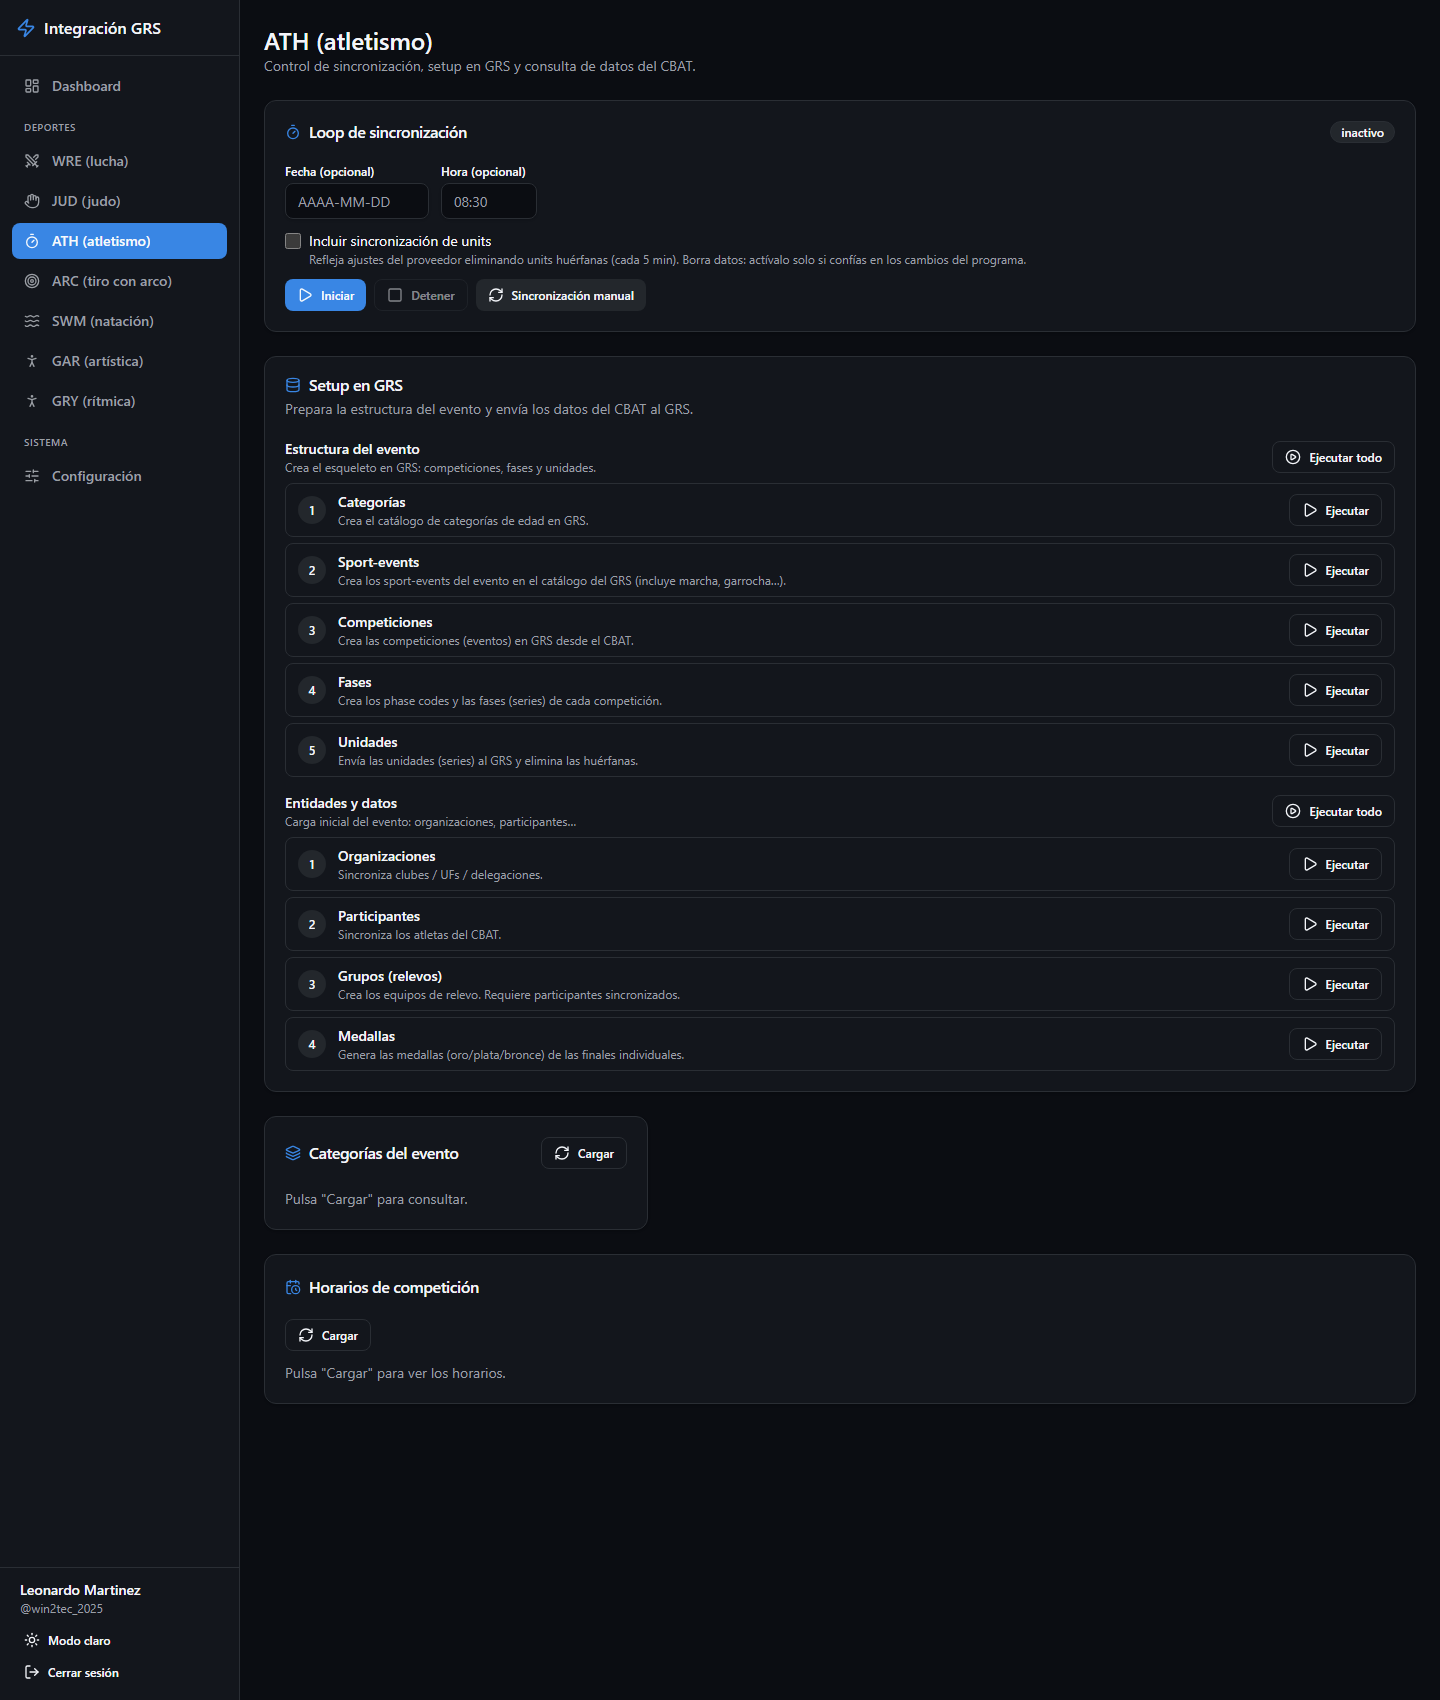
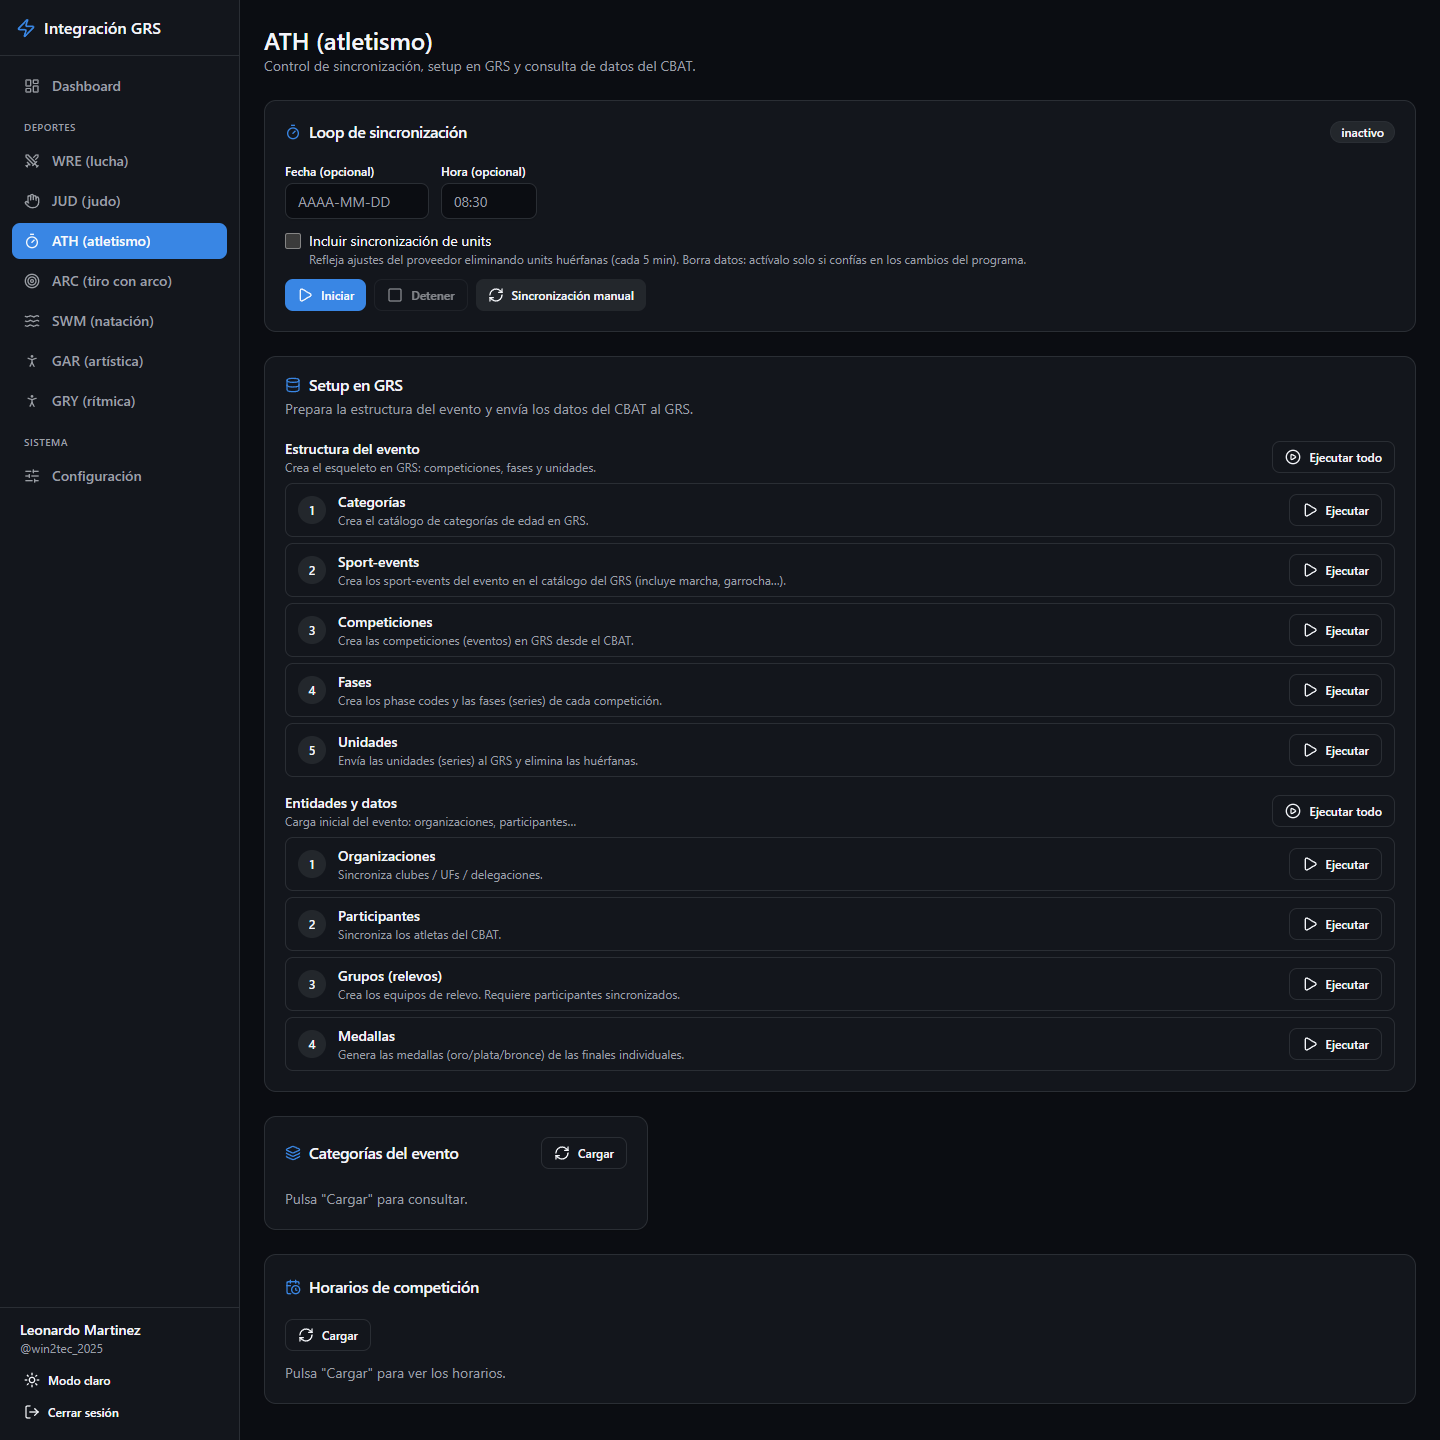
docs(manual): manual al día con la UI actual + capturas nuevas contra dev
Reescritura tras #15-#19: auto-sync se enciende desde el Dashboard y 0 =
5 min por defecto (antes decía "0 = off"), judo con códigos duales
individual/equipos + eventCode GRS prefijado y validación en vivo,
etiquetas de eventos por integración, errores agrupados por causa,
secciones reales de ATH (Categorías del evento / Horarios).

Capturas regeneradas contra dev con datos reales (1440px, página
completa vía CDP); login.png se conserva porque esa pantalla no cambió.

diff --git a/docs/manual-usuario.md b/docs/manual-usuario.md
@@ -6,7 +6,7 @@ Panel de escritorio para operar la sincronización de resultados deportivos del 
 > - **GRS**: el sistema central de resultados. Todo lo que se sincroniza termina ahí.
 > - **Proveedor**: el sistema externo de cada deporte (Arena, Zempo, CBAT, IANSEO, SwimSystem, SportTech).
 > - **Sync / sincronización**: traer datos del proveedor y guardarlos en el GRS.
-> - **Auto-sync**: sincronización automática periódica (cada N segundos).
+> - **Auto-sync**: sincronización automática periódica. El intervalo se configura en **Configuración → Integraciones**; se enciende y apaga desde la tarjeta del deporte en el **Dashboard**.
 > - **Setup**: pasos que crean la estructura del evento en el GRS (competiciones, fases, units) antes de sincronizar datos.
 
 ---
@@ -54,39 +54,40 @@ Dónde están los servicios y sus credenciales. Se guardan **en esta computadora
 |---|---|
 | GRS — Base URL (incluye /api) | URL del GRS, p. ej. `http://localhost:3010/api` |
 | Idioma (header language del GRS) | Código de idioma, normalmente `spa` |
-| JUD / judo — Base URL y API Key | Servicio Zempo de judo |
+| JUD / judo — Base URL y API Key (Bearer) | Servicio Zempo de judo |
 | ATH / atletismo — Base URL y API Key (opcional) | Servicio de atletismo (CBAT) |
 
 Pulsa **Guardar conexiones** al terminar. El botón **Probar conexión Zempo** verifica que el servicio de judo responda (badge "Zempo conectado" / "Zempo sin conexión").
 
 ### 3.2 Integraciones
 
-Configuración operativa de cada proveedor, guardada en el GRS. Cada tarjeta (SWM, WRE, GAR, GRY, JUD) muestra:
+Configuración operativa de cada proveedor, guardada en el GRS. Cada tarjeta (WRE, JUD, GAR, GRY, SWM) muestra:
 
 - Badge **habilitado / deshabilitado** y botón para alternarlo.
-- **Eventos / meets / competiciones**: la lista de ediciones (una por año). Agrega la actual y márcala como **activa** — es la que operan las páginas de cada deporte.
-- **Auto-sync cada (segundos · 0 = off)**: intervalo del runner automático del servidor. Con un valor mayor a 0 aparece "runner activo · cada Xs".
+- **Eventos / meets / competiciones**: la lista de ediciones (una por año). Cada fila tiene una **Etiqueta** (nombre legible que se muestra en el Dashboard y en las páginas, p. ej. "Continental Cup 2025") y el **UUID / código** del proveedor. Agrega la edición actual y márcala como **Activo** — es la que operan las páginas de cada deporte.
+- **Auto-sync cada (segundos · 0 = 5 min por defecto)**: el intervalo del runner automático del servidor. Aquí solo se configura el **tiempo**; el encendido/apagado está en la tarjeta del deporte en el Dashboard ("se inicia desde el Dashboard"). Con la auto-sync encendida se ve "auto-sync activo · cada Xs".
 - Campos propios del proveedor:
-  - **WRE**: Base URL de Arena y **Código de evento (eventCode)**, p. ej. `JJB2026`.
+  - **WRE**: **Base URL** de Arena y **Código de evento (eventCode)**, p. ej. `JJB2026`.
+  - **JUD**: dos listas de códigos de Zempo — **Individual** y **Equipos** (cada una con su activo) — más el **Código de evento GRS (eventCode)** que usa el paso de setup, p. ej. `JJB2026`.
   - **GAR/GRY**: **Código de edición (eventCode)**, p. ej. `JJB`.
-- **Última sincronización**, **Estado** (badge) y **Error** del último intento — útil para diagnóstico.
+- **Última sincronización**, **Estado** (badge: ok / error / omitido) y **Error** del último intento. Los errores se agrupan por causa (`N× causa`); expande una causa para ver a qué unidades afecta.
 
 Pulsa **Guardar** cuando cambies algo (el botón aparece solo si hay cambios).
 
 ## 4. Dashboard
 
-Es la página de inicio: una tarjeta por deporte con su estado en vivo (se refresca sola cada 15 segundos).
+Es la página de inicio: una tarjeta por deporte con su estado en vivo (se refresca sola cada 15 segundos). Desde aquí se **enciende y apaga la auto-sync** de cada integración.
 
 ![Dashboard con las tarjetas de todas las integraciones](img/dashboard.png)
 
 | Tarjeta | Estado que muestra | Acciones rápidas |
 |---|---|---|
-| **WRE (lucha)** | auto-sync activa / inactiva, evento y URL | **Iniciar** / **Detener** auto-sync, **Sync completa**, **Resultados** |
-| **JUD (judo)** | N competiciones en sync, competición activa | Agregar código de competición al sync, quitar una de la lista |
+| **WRE (lucha)** | auto-sync activa / inactiva, evento y URL de WRE | **Iniciar** / **Detener** auto-sync, **Sync completa**, **Resultados** |
+| **JUD (judo)** | N activas, competición activa (individual) y equipos | **Iniciar auto-sync** / **Detener** con los códigos de la config; quitar una competición de la lista en sync |
 | **ATH (atletismo)** | sincronizando / inactivo, fecha y última sincronización | **Iniciar** / **Detener**, **Sync manual**, casilla "Incluir sincronización de units" |
 | **ARC (tiro con arco)** | recibiendo / sin datos, documentos ODF recibidos | (solo monitor, sin acciones) |
-| **SWM (natación)** | webhook activo / sin actividad, última entrega | **Sincronizar** un meet por su id |
-| **GAR / GRY (gimnasia)** | manual / sincronizado / con errores | **Sincronizar** el evento por su id |
+| **SWM (natación)** | webhook activo / sin actividad, última entrega, meet activo | **Sincronizar** un meet por su id |
+| **GAR / GRY (gimnasia)** | evento activo, manual / auto-sync activa / sincronizado | **Sincronizar** el evento (id pre-rellenado con el activo), **Iniciar auto-sync** / **Detener** |
 
 > ⚠ En **ATH**, la casilla *"Incluir sincronización de units"* **borra** units huérfanas. Actívala solo si confías en los cambios del programa del proveedor.
 
@@ -100,9 +101,9 @@ Las páginas comparten un patrón: pestaña de **competición/estado** (qué hay
 
 Se actualiza **en vivo**: la página reacciona sola cuando Arena reporta cambios.
 
-![Página WRE — así se ve cuando Arena aún no está configurada (falta baseUrl/eventCode en Integraciones)](img/wre.png)
+![Página WRE — evento en vivo con categorías y peleas](img/wre.png)
 
-- **Competición**: tarjeta *Evento actual* (código, fechas, estado), lista de **Categorías** con buscador, y las **Peleas** de la categoría seleccionada agrupadas por ronda. El botón **Sincronizar** re-sincroniza solo esa categoría.
+- **Competición**: tarjeta *Evento actual* (sede, fechas, modalidad), lista de **Categorías** con buscador, y las **Peleas** de la categoría seleccionada agrupadas por ronda, con filtros Todas / Finalizadas / Pendientes y el área (tatami) de cada pelea. El botón **Sincronizar** re-sincroniza solo esa categoría.
 - **Proveedor**: datos crudos de Arena (Evento / Categorías / Peleas) sin interpretación del GRS.
 - **Sync**: loop de sincronización de respaldo (**Iniciar** / **Detener**), configuración del webhook, pasos de **Setup en GRS** (crear estructura del evento → participantes → grupos → resultados) e **historial de sync**.
 
@@ -110,12 +111,12 @@ Se actualiza **en vivo**: la página reacciona sola cuando Arena reporta cambios
 
 ### 5.2 JUD (judo) — Zempo
 
-Arriba de todo está la barra con el **código de competición** de Zempo, que usan todas las pestañas.
+Arriba de todo está la barra con el **código de competición** de Zempo, que usan todas las pestañas. Al lado del campo aparecen dos chips con los códigos configurados en Integraciones — **Individual** y **Equipos** — para ponerlos con un click sin re-tipear. Al escribir o elegir un código, la barra lo **valida en vivo** contra Zempo y muestra el nombre de la competición, cuántas categorías tiene (y cuántas sorteadas) y los inscritos.
 
 ![Página JUD — pestaña Configuración con los pasos de setup](img/jud.png)
 
-- **Configuración**: tarjeta de setup de la competición (crear estructura → participantes → start list → equipos → resultados → rankings, más staff y federaciones) y control de horarios. Cada paso tiene su botón **Ejecutar** y muestra un resumen (creados / procesados / omitidos) con errores si los hay; también se puede **Ejecutar todo** en orden.
-- **Lutas**: categorías con su progreso (completadas/total) y las lutas de la categoría seleccionada.
+- **Configuración**: tarjeta de setup de la competición (crear estructura → participantes → start list → equipos → resultados → rankings, más staff y federaciones) y la sincronización periódica al pie. El campo **Código de evento (eventCode)** viene pre-rellenado desde Integraciones. Cada paso tiene su botón **Ejecutar** y muestra un resumen (creados / procesados / omitidos) con errores si los hay; también se puede **Ejecutar todo** en orden.
+- **Lutas**: categorías con su progreso (completadas/total) y las lutas de la categoría seleccionada. Como el nombre de las categorías se repite, cada fila muestra además el código del sport-event (el sufijo lleva el peso, p. ej. `14A1640`).
 - **Orden de lutas**: orden de ejecución por tatami.
 - **Resultados**: resultados y ranking.
 
@@ -123,9 +124,9 @@ Arriba de todo está la barra con el **código de competición** de Zempo, que u
 
 ![Página ATH — loop de sincronización y setup en GRS](img/ath.png)
 
-- **Loop de sincronización**: Iniciar / Detener el sync automático, con fecha y última sincronización.
-- **Setup en GRS** en dos grupos: *Estructura* (categorías → sport-events → competiciones → fases → unidades) y *Entidades* (organizaciones → participantes → grupos de relevos → medallas). Ejecuta en ese orden.
-- **Consulta de datos del CBAT**: vista de lectura de lo que envía el proveedor.
+- **Loop de sincronización**: Iniciar / Detener el sync automático, con fecha y hora opcionales para sincronizar un día concreto.
+- **Setup en GRS** en dos grupos, cada uno con su **Ejecutar todo**: *Estructura* (categorías → sport-events → competiciones → fases → unidades) y *Entidades* (organizaciones → participantes → grupos de relevos → medallas). Ejecuta en ese orden.
+- **Categorías del evento** y **Horarios de competición**: vistas de lectura de lo que envía el CBAT (pulsa **Cargar**).
 
 ### 5.4 ARC (tiro con arco) — IANSEO
 
@@ -133,39 +134,39 @@ Solo lectura: IANSEO empuja documentos ODF al GRS y esta página los monitorea.
 
 ![Página ARC — monitor de ingesta de documentos ODF](img/arc.png)
 
-- **Monitor de ingesta**: tabla de documentos recibidos (filtrable por tipo: Clasificación, Brackets, Match); al seleccionar uno se ve su contenido.
+- **Monitor de ingesta**: tabla de documentos recibidos (filtrable por tipo: Brackets, Clasificación, Match); al seleccionar uno se ve su contenido.
 - **Competencia**: categorías con su progreso y los matches de la seleccionada, agrupados por ronda.
 
 Si no llegan documentos ("sin datos" en el Dashboard), el problema está del lado de IANSEO o del webhook — no hay nada que "ejecutar" desde aquí.
 
 ### 5.5 SWM (natación) — SwimSystem
 
-Arriba se elige el **meet activo** (la lista se administra en Configuración → Integraciones).
+El meet activo se elige en **Configuración → Integraciones** (lista de meets con etiqueta y UUID).
 
 ![Página SWM — estado del webhook y entregas recientes](img/swm.png)
 
-- **Estado**: estado del webhook y últimas entregas recibidas.
+- **Estado**: estado de la conexión con SwimSystem y las **entregas de webhook** recientes, con contadores (completadas, fallidas, en espera) y el motivo cuando una falla.
 - **Proveedor**: recursos crudos de SwimSystem con buscador.
 - **Sync**: **Sincronizar meet**, **Validar (mapeo RSC)** y el sync por etapa en orden: estructura → organizaciones → participantes → grupos (relevos) → start-lists → resultados. Abajo, el historial.
 
 ### 5.6 GAR / GRY (gimnasia) — SportTech
 
-Dos páginas gemelas (artística y rítmica). Arriba se elige el **evento activo**.
+Dos páginas gemelas (artística y rítmica). Arriba se elige el **evento activo** (los eventos y sus etiquetas se administran en Configuración → Integraciones).
 
 ![Página GAR — competiciones y units del evento activo](img/gar.png)
 
 ![Página GRY — misma vista para rítmica, con conjuntos](img/gry.png)
 
-- **Competición**: resumen del evento (competiciones, units, atletas, sin mapear) y una tarjeta por competición con sus units, indicando cuáles ya están en catálogo y cuáles se crearán.
+- **Competición**: resumen del evento (competiciones, units, atletas, sin mapear) y una tarjeta por competición con sus units, indicando el RSC de cada una y cuáles ya están en catálogo y cuáles se crearán.
 - **Proveedor**: atletas, competiciones y estructura tal como los manda SportTech, con buscador.
 - **Sync**: pull por etapa (estructura → participantes → grupos/conjuntos → resultados), importación por **CSV** como alternativa a la API, e historial.
 
 ## 6. Puesta en marcha de un evento nuevo (checklist)
 
 1. **Configuración → Conexiones**: URLs y API keys de los servicios. Guardar y probar Zempo.
-2. **Configuración → Integraciones**: agregar la edición del año en cada proveedor, marcarla **activa**, cargar eventCode/Base URL donde aplique y habilitar la integración.
+2. **Configuración → Integraciones**: agregar la edición del año en cada proveedor (con su **etiqueta**), marcarla **Activo**, cargar eventCode/Base URL donde aplique y habilitar la integración. En JUD, cargar los códigos **Individual** y **Equipos** más el eventCode del GRS.
 3. **Por deporte**: ejecutar el **setup** (estructura primero, entidades después) desde la pestaña Sync/Configuración de cada página.
-4. **Activar los automáticos**: auto-sync de WRE y ATH, schedules de JUD, y el intervalo del runner en Integraciones donde se quiera sondeo periódico.
+4. **Activar los automáticos desde el Dashboard**: Iniciar auto-sync en las tarjetas de WRE, JUD, ATH, GAR/GRY (el intervalo se ajusta en Integraciones; `0` = cada 5 minutos).
 5. **Monitorear desde el Dashboard** durante la competencia; entrar a la página del deporte solo para diagnóstico o re-sync puntual.
 
 ## 7. Problemas frecuentes
@@ -174,7 +175,7 @@ Dos páginas gemelas (artística y rítmica). Arriba se elige el **evento activo
 |---|---|
 | No puedo iniciar sesión | ¿GRS encendido? ¿URL correcta en Configuración → Conexiones? |
 | Tarjeta con "No se pudo conectar" | Botón reintentar; luego URLs/keys en Conexiones y que el servicio esté corriendo |
-| Estado FAILED en una integración | Ver el campo **Error** en Configuración → Integraciones o el historial de sync de la página del deporte |
+| Estado **error** en una integración | Ver el campo **Error** en Configuración → Integraciones (los errores vienen agrupados por causa) o el historial de sync de la página del deporte |
 | Los datos no coinciden con el proveedor | Pestaña **Proveedor** de la página del deporte: si lo crudo ya viene mal, el problema es del proveedor; si viene bien, re-ejecutar el paso de sync correspondiente |
-| No aparece el evento del año | Falta agregarlo y marcarlo **activo** en Configuración → Integraciones |
+| No aparece el evento del año | Falta agregarlo y marcarlo **Activo** en Configuración → Integraciones |
 | La app pide login de nuevo | La sesión expiró: volver a entrar |
